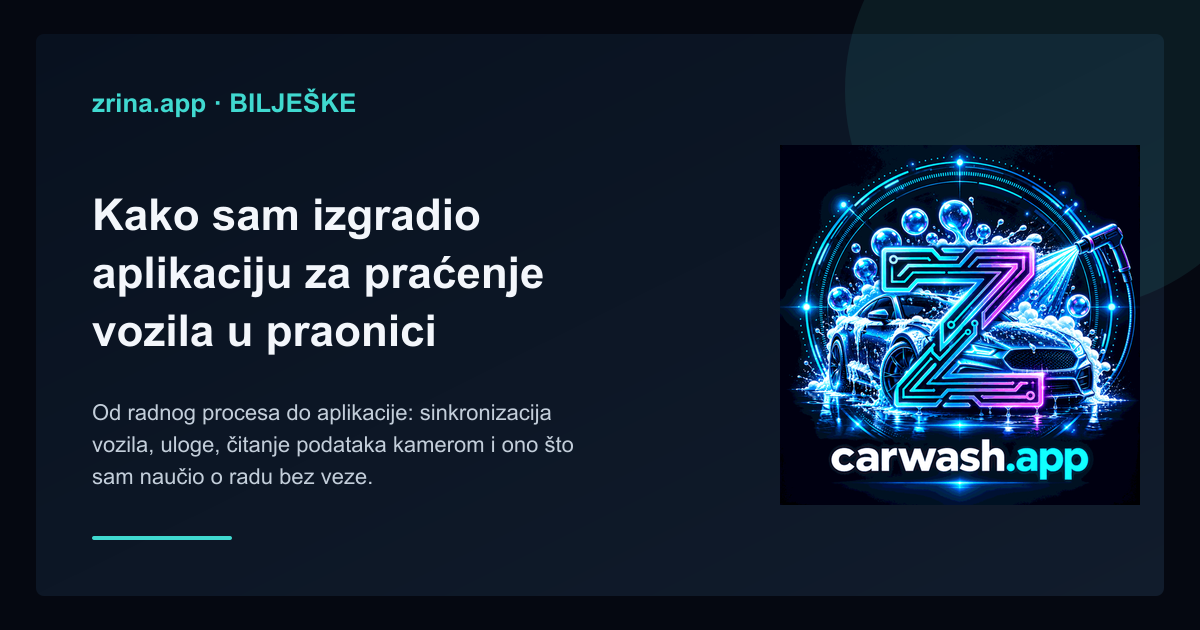
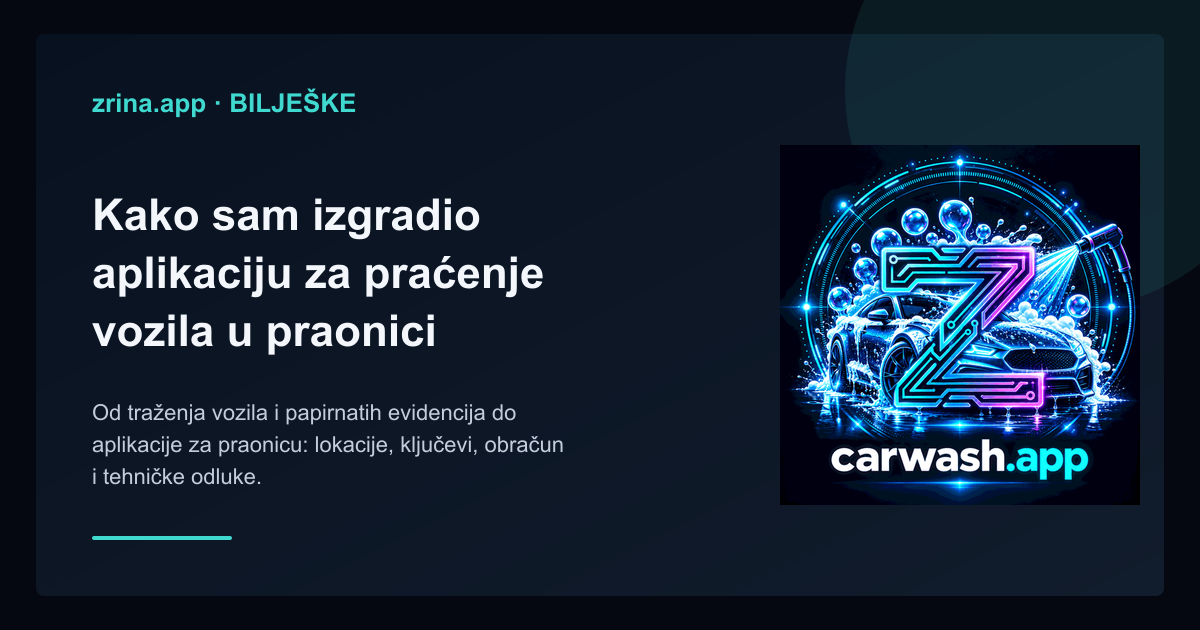
Expand carwash story with workflow and technical examples

Changed region(s): [[0.0617, 0.6333, 0.4933, 0.7841]]

diff --git a/blog/kako-sam-izgradio-aplikaciju-za-praonicu/index.html b/blog/kako-sam-izgradio-aplikaciju-za-praonicu/index.html
@@ -4,10 +4,10 @@
   <meta charset="UTF-8">
   <meta name="viewport" content="width=device-width, initial-scale=1">
   <title>Kako sam izgradio aplikaciju za praćenje vozila u praonici | zrina.app</title>
-  <meta name="description" content="Od radnog procesa do aplikacije: sinkronizacija vozila, uloge, čitanje podataka kamerom i ono što sam naučio o radu bez veze.">
+  <meta name="description" content="Od traženja vozila i papirnatih evidencija do aplikacije za praonicu: lokacije, ključevi, obračun i tehničke odluke.">
   <link rel="canonical" href="https://zrina.app/blog/kako-sam-izgradio-aplikaciju-za-praonicu/">
   <meta property="og:title" content="Kako sam izgradio aplikaciju za praćenje vozila u praonici">
-  <meta property="og:description" content="Od radnog procesa do aplikacije: sinkronizacija vozila, uloge, čitanje podataka kamerom i ono što sam naučio o radu bez veze.">
+  <meta property="og:description" content="Od traženja vozila i papirnatih evidencija do aplikacije za praonicu: lokacije, ključevi, obračun i tehničke odluke.">
   <meta property="og:type" content="article">
   <meta property="og:url" content="https://zrina.app/blog/kako-sam-izgradio-aplikaciju-za-praonicu/">
   <meta property="og:image" content="https://zrina.app/assets/share-cards/blog/kako-sam-izgradio-aplikaciju-za-praonicu.png">
@@ -17,14 +17,14 @@
   <meta property="og:locale" content="hr_HR">
   <meta name="twitter:card" content="summary_large_image">
   <meta name="twitter:title" content="Kako sam izgradio aplikaciju za praćenje vozila u praonici">
-  <meta name="twitter:description" content="Od radnog procesa do aplikacije: sinkronizacija vozila, uloge, čitanje podataka kamerom i ono što sam naučio o radu bez veze.">
+  <meta name="twitter:description" content="Od traženja vozila i papirnatih evidencija do aplikacije za praonicu: lokacije, ključevi, obračun i tehničke odluke.">
   <meta name="twitter:image" content="https://zrina.app/assets/share-cards/blog/kako-sam-izgradio-aplikaciju-za-praonicu.png">
   <meta name="theme-color" content="#050811">
   <link rel="icon" type="image/png" sizes="96x96" href="/assets/brand/zrinaapp_min.png">
   <link rel="stylesheet" href="/site.css?v=5fb8de16b75c">
   <script src="/navigation.js?v=350f57937047" defer></script>
-  <link rel="stylesheet" href="/blog.css">
-  <script type="application/ld+json">{"@context":"https://schema.org","@type":"Article","headline":"Kako sam izgradio aplikaciju za praćenje vozila u praonici","description":"Od radnog procesa do aplikacije: sinkronizacija vozila, uloge, čitanje podataka kamerom i ono što sam naučio o radu bez veze.","datePublished":"2026-11-11","dateModified":"2026-11-11","inLanguage":"hr","mainEntityOfPage":"https://zrina.app/blog/kako-sam-izgradio-aplikaciju-za-praonicu/","image":"https://zrina.app/assets/share-cards/blog/kako-sam-izgradio-aplikaciju-za-praonicu.png","author":{"@type":"Person","name":"Vedran Zrinski","url":"https://zrina.app/"},"publisher":{"@type":"Organization","name":"zrina.app","url":"https://zrina.app/"}}</script>
+  <link rel="stylesheet" href="/blog.css?v=57bba0f1639a">
+  <script type="application/ld+json">{"@context":"https://schema.org","@type":"Article","headline":"Kako sam izgradio aplikaciju za praćenje vozila u praonici","description":"Od traženja vozila i papirnatih evidencija do aplikacije za praonicu: lokacije, ključevi, obračun i tehničke odluke.","datePublished":"2026-11-11","dateModified":"2026-11-11","inLanguage":"hr","mainEntityOfPage":"https://zrina.app/blog/kako-sam-izgradio-aplikaciju-za-praonicu/","image":"https://zrina.app/assets/share-cards/blog/kako-sam-izgradio-aplikaciju-za-praonicu.png","author":{"@type":"Person","name":"Vedran Zrinski","url":"https://zrina.app/"},"publisher":{"@type":"Organization","name":"zrina.app","url":"https://zrina.app/"}}</script>
 </head>
 <body class="blog-page">
   <header class="topbar has-mobile-menu">
@@ -55,17 +55,42 @@
       <header class="article-header">
         <p class="blog-meta">Iza aplikacije <span aria-hidden="true">·</span> <time datetime="2026-11-11">11. studenoga 2026.</time></p>
         <h1>Kako sam izgradio aplikaciju za praćenje vozila u praonici</h1>
-        <p class="article-summary">Od radnog procesa do aplikacije: sinkronizacija vozila, uloge, čitanje podataka kamerom i ono što sam naučio o radu bez veze.</p>
+        <p class="article-summary">Od traženja vozila i papirnatih evidencija do aplikacije za praonicu: lokacije, ključevi, obračun i tehničke odluke.</p>
       </header>
       <div class="article-content">
-      <p class="article-lead">Kad više ljudi sudjeluje u prijemu, pranju i predaji vozila, jednostavno pitanje „Gdje je auto i tko ima ključ?” može oduzeti više vremena nego što bi trebalo. Aplikaciju za praonicu počeo sam razvijati upravo oko tog svakodnevnog problema.</p>
-      <p>Cilj nije bio napraviti još jednu tablicu za popunjavanje, nego omogućiti timu da na jednom mjestu vidi što čeka, što je u tijeku i što je spremno za sljedeći korak. Izvorna verzija nastala je uz Google Apps Script i Google Sheets te je isprobana u stvarnom radnom procesu. Ovdje opisujem pristup bez podataka o korisnicima ili organizaciji.</p>
+      <p class="article-lead">„Gdje je auto? Gdje je ključ? Je li pranje gotovo?” To nisu bila pitanja na koja smo odgovarali jednim pogledom. Često su značila hodanje, telefonske pozive i potragu po više parkirališta. Upravo zato počeo sam razvijati aplikaciju za praonicu.</p>
+      <p>Izvorna verzija nastala je uz Google Apps Script i Google Sheets te je isprobana u stvarnom radnom procesu. U ovom tekstu namjerno izostavljam naziv organizacije, prepoznatljivu kartu i poslovne podatke, ali želim dočarati problem zbog kojeg je aplikacija nastala.</p>
+      <h2>Zašto je bilo teško pronaći jedan auto?</h2>
+      <p>Praonica je radila u sklopu većeg servisnog kompleksa, odvojena od prijema vozila. Koristio ju je servis, ali i drugi interni i vanjski korisnici. Automobili su tijekom dana mogli biti na različitim parkiralištima ili u različitim dijelovima kompleksa; ključ nije nužno bio ondje gdje i automobil.</p>
+      <p>Prije probnog korištenja aplikacije kolege servisni savjetnici i ja u prosjeku smo radili oko 15.000 koraka tijekom radnog dana, uz puno traženja vozila i ključeva te njihovo prevoženje za isporuku. To je moje iskustvo i približna procjena ukupnog broja koraka, a ne mjerenje koraka uzrokovanih isključivo traženjem. Nemam usporedivo mjerenje nakon uvođenja aplikacije pa ne mogu tvrditi kolika je bila ušteda.</p>
+      <h2>Desetak listova papira svaki dan</h2>
+      <p>Popis opranih vozila vodio se na ispisanim tablicama koje su se ispunjavale rukom — prema mojem iskustvu, oko deset A4 listova dnevno. Podatke je zatim trebalo prepisivati, razvrstavati i računati ručno. Na kraju mjeseca količine i različite vrste pranja obračunavale su se uz papir, olovku i kalkulator.</p>
+      <p>Servis je bio najveći korisnik. Pranje servisnog vozila u tom se procesu nije naplaćivalo kupcu, nego se obračun vodio interno između praonice i servisa. Trebalo je razlikovati naručitelje i vrste usluga kako bi evidencija poslužila kao podloga za odgovarajući obračun, ne samo kao popis automobila.</p>
+      <p>Aplikacija je zato povezala dnevni rad i evidenciju: podaci uneseni uz vozilo mogu se kasnije pregledavati po razdoblju, odjelu i vrsti pranja, uz pripadajući cjenik. Izvorna izvedba nudi pregled količina i iznosa te izvoz podataka. To pomaže pripremi obračuna, ali nije tvrdnja da sama izdaje račune ili da brojke ne treba provjeriti.</p>
       <h2>Jedan zapis, različiti poslovi</h2>
       <p>Vozilo prolazi kroz nekoliko koraka, a različitim ljudima trebaju različite informacije. Nekome je važan prijem, drugome redoslijed pranja, parkirno mjesto ili ključ. Zato su prikazi i dostupne radnje prilagođeni radnoj ulozi, dok svi rade nad zajedničkim zapisima.</p>
-      <p>Najvažnije pitanje u dizajnu nije bilo koliko podataka možemo prikazati, nego može li osoba brzo pronaći ono što joj treba usred smjene. Status, lokacija i ključ zato imaju konkretno mjesto u tijeku rada, umjesto da ostanu samo u usmenoj predaji.</p>
+      <p>Primjerice, osoba u praonici može označiti da je vozilo u pranju ili gotovo i zabilježiti gdje je ostavljeno. Savjetniku su zatim na raspolaganju status, posljednja upisana lokacija i podatak o ključu. Prikaz lokacije je koristan samo ako ga ljudi redovito ažuriraju: nije automatsko GPS praćenje niti jamstvo da je vozilo još uvijek na tom mjestu.</p>
+      <p>U originalu je za odabir lokacije korištena i karta radnog prostora, s dodatnim opisima pojedinih zona. Ona ovdje nije objavljena jer prikazuje stvarnu lokaciju. Važna ideja nije sama fotografija, nego mogućnost da tim koristi zajedničke, razumljive oznake umjesto neodređenog „tamo iza”.</p>
+      <h2>Kako sam razmišljao o rješenju</h2>
+      <p>Sljedeći primjeri namjerno su pojednostavljeni i napisani za ovaj članak: prikazuju načelo, nisu doslovno preuzeti produkcijski kod niti gotov sustav za korištenje. Ne uključuju stvarne podatke ni poslovna pravila organizacije.</p>
       <h2>Kako se promjene pojavljuju na drugim ekranima?</h2>
       <p>U izvornoj izvedbi Google Sheets služi kao zajedničko spremište, a Apps Script obrađuje zahtjeve klijenata. Nakon izmjena ažurira se oznaka verzije; otvoreni ekran periodički provjerava postoje li noviji podaci i po potrebi osvježava popis.</p>
+      <pre><code>// Ilustracija: provjera poznate verzije
+odgovor = provjeriPromjene(poznataVerzija)
+
+ako odgovor.imaPromjena:
+    prikazi(odgovor.vozila)
+    poznataVerzija = odgovor.verzija</code></pre>
+      <p>Ideja je da ekran ne mora svaki put ponovo preuzimati cijeli popis kad se ništa nije promijenilo. Nakon uspješne promjene u izvornom kodu ažurira se oznaka verzije; na sljedećoj provjeri poslužitelj može vratiti podatke ili odgovor da nema promjene.</p>
       <p>To je <em>polling</em>, a ne trenutačna push veza: u pregledanom kodu provjera se pokreće približno svake tri sekunde, uz dodatno vrijeme mreže i obrade. Lokalna kopija može ubrzati početni prikaz, ali ne zamjenjuje svježi odgovor poslužitelja. Ovaj način ne dokazuje da nikad neće doći do zastoja ili sukoba izmjena.</p>
+      <h2>Od zapisa do pripreme obračuna</h2>
+      <p>Umjesto ponovnog ručnog prebrojavanja papira, izvještaj prolazi kroz evidentirana vozila za odabrano razdoblje, razvrstava ih prema naručitelju i vrsti usluge te pridružuje cijenu iz cjenika. Pojednostavljeno:</p>
+      <pre><code>// Ilustracija: grupiranje stavki izvještaja
+za svaki zapis u odabranomRazdoblju:
+    grupa = dohvatiGrupu(zapis.odjel, zapis.vrstaPranja)
+    grupa.kolicina += 1
+    grupa.iznos += cijenaZa(grupa)</code></pre>
+      <p>U izvornom kodu izvještaj čita aktivne i arhivirane zapise, grupira ih po odjelu i vrsti pranja te koristi cjenik. Kvaliteta rezultata ovisi o unesenim zapisima i postavljenim cijenama; izvještaj zato ostaje podloga koju treba pregledati, a ne zamjena za računovodstvenu provjeru.</p>
       <h2>Bez signala: važna razlika između prikaza i spremanja</h2>
       <p>Zadnje poznate podatke korisno je vidjeti i kada veza oslabi. No prikaz spremljenog stanja nije isto što i pouzdano spremanje novih radnji bez interneta. U pregledanoj verziji klijent pri prekidu veze onemogućuje određene akcije; nisam potvrdio postojanje trajnog reda izmjena koji bi ih kasnije automatski poslao.</p>
       <p>To je za mene važna lekcija: offline mogućnost treba opisati i testirati po pojedinoj radnji, a ne obećavati je samo zato što je aplikacija dostupna na mobitelu.</p>
@@ -73,6 +98,7 @@
       <p>Izvorna verzija koristi identifikator pohranjen u pregledniku i postupak odobravanja korisnika i dodjele uloge. To olakšava organizaciju prikaza, ali identifikator preglednika sam po sebi nije pouzdana potvrda identiteta. Kod nove izvedbe takav pristup treba zamijeniti odgovarajućom autentifikacijom i provjerama ovlasti na poslužitelju.</p>
       <h2>Kamera i provjera prije potvrde</h2>
       <p>U originalnom Android okruženju fotografija se obrađuje prepoznavanjem teksta, a rezultat se dodatno prilagođava pravilima za podatke o vozilu. Prepoznavanje može pogriješiti — zato je rezultat pomoć pri unosu, ne zamjena za provjeru osobe koja radi s vozilom.</p>
+      <p>Na primjer, slovo O i znamenka 0 na fotografiji mogu izgledati vrlo slično. Kod VIN-a aplikacija može usporediti više mogućih zapisa, primijeniti pravila dopuštenih znakova i uzeti u obzir kontrolnu znamenku pri rangiranju. Kod registarske oznake ispravci ovise i o položaju znaka. To su pravila obrade rezultata OCR-a, a ne dokaz da je svaka fotografija ispravno pročitana.</p>
       <h2>Tri izvedbe, jedan problem</h2>
       <p>Od izvorne verzije nastala je i zasebna web-izvedba s drukčijim poslužiteljem i bazom, a kasnije eksperimentalna PWA verzija razvijena uz AI Studio. To nisu iste implementacije i ne treba pretpostaviti da svaka funkcija originala radi jednako u novijim verzijama.</p>
       <aside class="article-note"><strong>Što nosim dalje:</strong> razumjeti posao prije odabira tehnologije, provjeriti ponašanje u stvarnim uvjetima i jasno reći gdje su granice rješenja.</aside>

diff --git a/scripts/build-blog.js b/scripts/build-blog.js
@@ -8,23 +8,48 @@ const posts = [
   {
     slug: "kako-sam-izgradio-aplikaciju-za-praonicu",
     title: "Kako sam izgradio aplikaciju za praćenje vozila u praonici",
-    description: "Od radnog procesa do aplikacije: sinkronizacija vozila, uloge, čitanje podataka kamerom i ono što sam naučio o radu bez veze.",
+    description: "Od traženja vozila i papirnatih evidencija do aplikacije za praonicu: lokacije, ključevi, obračun i tehničke odluke.",
     date: "2026-11-11",
     dateLabel: "11. studenoga 2026.",
     category: "Iza aplikacije",
     accent: "#40d9d0",
     icon: "carwash/carwash-logo.png",
     imageAlt: "carwash.app — aplikacija za praćenje tijeka vozila u praonici",
-    facebook: "Kako povezati status vozila, lokaciju i ključeve u jedan pregled? Pišem o nastanku aplikacije za praonicu i tehničkim odlukama iza nje. https://zrina.app/blog/kako-sam-izgradio-aplikaciju-za-praonicu/",
+    facebook: "Kako od traženja vozila i papirnatih evidencija doći do zajedničkog pregleda praonice? Pišem o stvarnom problemu i tehničkim odlukama iza aplikacije. https://zrina.app/blog/kako-sam-izgradio-aplikaciju-za-praonicu/",
     body: `
-      <p class="article-lead">Kad više ljudi sudjeluje u prijemu, pranju i predaji vozila, jednostavno pitanje „Gdje je auto i tko ima ključ?” može oduzeti više vremena nego što bi trebalo. Aplikaciju za praonicu počeo sam razvijati upravo oko tog svakodnevnog problema.</p>
-      <p>Cilj nije bio napraviti još jednu tablicu za popunjavanje, nego omogućiti timu da na jednom mjestu vidi što čeka, što je u tijeku i što je spremno za sljedeći korak. Izvorna verzija nastala je uz Google Apps Script i Google Sheets te je isprobana u stvarnom radnom procesu. Ovdje opisujem pristup bez podataka o korisnicima ili organizaciji.</p>
+      <p class="article-lead">„Gdje je auto? Gdje je ključ? Je li pranje gotovo?” To nisu bila pitanja na koja smo odgovarali jednim pogledom. Često su značila hodanje, telefonske pozive i potragu po više parkirališta. Upravo zato počeo sam razvijati aplikaciju za praonicu.</p>
+      <p>Izvorna verzija nastala je uz Google Apps Script i Google Sheets te je isprobana u stvarnom radnom procesu. U ovom tekstu namjerno izostavljam naziv organizacije, prepoznatljivu kartu i poslovne podatke, ali želim dočarati problem zbog kojeg je aplikacija nastala.</p>
+      <h2>Zašto je bilo teško pronaći jedan auto?</h2>
+      <p>Praonica je radila u sklopu većeg servisnog kompleksa, odvojena od prijema vozila. Koristio ju je servis, ali i drugi interni i vanjski korisnici. Automobili su tijekom dana mogli biti na različitim parkiralištima ili u različitim dijelovima kompleksa; ključ nije nužno bio ondje gdje i automobil.</p>
+      <p>Prije probnog korištenja aplikacije kolege servisni savjetnici i ja u prosjeku smo radili oko 15.000 koraka tijekom radnog dana, uz puno traženja vozila i ključeva te njihovo prevoženje za isporuku. To je moje iskustvo i približna procjena ukupnog broja koraka, a ne mjerenje koraka uzrokovanih isključivo traženjem. Nemam usporedivo mjerenje nakon uvođenja aplikacije pa ne mogu tvrditi kolika je bila ušteda.</p>
+      <h2>Desetak listova papira svaki dan</h2>
+      <p>Popis opranih vozila vodio se na ispisanim tablicama koje su se ispunjavale rukom — prema mojem iskustvu, oko deset A4 listova dnevno. Podatke je zatim trebalo prepisivati, razvrstavati i računati ručno. Na kraju mjeseca količine i različite vrste pranja obračunavale su se uz papir, olovku i kalkulator.</p>
+      <p>Servis je bio najveći korisnik. Pranje servisnog vozila u tom se procesu nije naplaćivalo kupcu, nego se obračun vodio interno između praonice i servisa. Trebalo je razlikovati naručitelje i vrste usluga kako bi evidencija poslužila kao podloga za odgovarajući obračun, ne samo kao popis automobila.</p>
+      <p>Aplikacija je zato povezala dnevni rad i evidenciju: podaci uneseni uz vozilo mogu se kasnije pregledavati po razdoblju, odjelu i vrsti pranja, uz pripadajući cjenik. Izvorna izvedba nudi pregled količina i iznosa te izvoz podataka. To pomaže pripremi obračuna, ali nije tvrdnja da sama izdaje račune ili da brojke ne treba provjeriti.</p>
       <h2>Jedan zapis, različiti poslovi</h2>
       <p>Vozilo prolazi kroz nekoliko koraka, a različitim ljudima trebaju različite informacije. Nekome je važan prijem, drugome redoslijed pranja, parkirno mjesto ili ključ. Zato su prikazi i dostupne radnje prilagođeni radnoj ulozi, dok svi rade nad zajedničkim zapisima.</p>
-      <p>Najvažnije pitanje u dizajnu nije bilo koliko podataka možemo prikazati, nego može li osoba brzo pronaći ono što joj treba usred smjene. Status, lokacija i ključ zato imaju konkretno mjesto u tijeku rada, umjesto da ostanu samo u usmenoj predaji.</p>
+      <p>Primjerice, osoba u praonici može označiti da je vozilo u pranju ili gotovo i zabilježiti gdje je ostavljeno. Savjetniku su zatim na raspolaganju status, posljednja upisana lokacija i podatak o ključu. Prikaz lokacije je koristan samo ako ga ljudi redovito ažuriraju: nije automatsko GPS praćenje niti jamstvo da je vozilo još uvijek na tom mjestu.</p>
+      <p>U originalu je za odabir lokacije korištena i karta radnog prostora, s dodatnim opisima pojedinih zona. Ona ovdje nije objavljena jer prikazuje stvarnu lokaciju. Važna ideja nije sama fotografija, nego mogućnost da tim koristi zajedničke, razumljive oznake umjesto neodređenog „tamo iza”.</p>
+      <h2>Kako sam razmišljao o rješenju</h2>
+      <p>Sljedeći primjeri namjerno su pojednostavljeni i napisani za ovaj članak: prikazuju načelo, nisu doslovno preuzeti produkcijski kod niti gotov sustav za korištenje. Ne uključuju stvarne podatke ni poslovna pravila organizacije.</p>
       <h2>Kako se promjene pojavljuju na drugim ekranima?</h2>
       <p>U izvornoj izvedbi Google Sheets služi kao zajedničko spremište, a Apps Script obrađuje zahtjeve klijenata. Nakon izmjena ažurira se oznaka verzije; otvoreni ekran periodički provjerava postoje li noviji podaci i po potrebi osvježava popis.</p>
+      <pre><code>// Ilustracija: provjera poznate verzije
+odgovor = provjeriPromjene(poznataVerzija)
+
+ako odgovor.imaPromjena:
+    prikazi(odgovor.vozila)
+    poznataVerzija = odgovor.verzija</code></pre>
+      <p>Ideja je da ekran ne mora svaki put ponovo preuzimati cijeli popis kad se ništa nije promijenilo. Nakon uspješne promjene u izvornom kodu ažurira se oznaka verzije; na sljedećoj provjeri poslužitelj može vratiti podatke ili odgovor da nema promjene.</p>
       <p>To je <em>polling</em>, a ne trenutačna push veza: u pregledanom kodu provjera se pokreće približno svake tri sekunde, uz dodatno vrijeme mreže i obrade. Lokalna kopija može ubrzati početni prikaz, ali ne zamjenjuje svježi odgovor poslužitelja. Ovaj način ne dokazuje da nikad neće doći do zastoja ili sukoba izmjena.</p>
+      <h2>Od zapisa do pripreme obračuna</h2>
+      <p>Umjesto ponovnog ručnog prebrojavanja papira, izvještaj prolazi kroz evidentirana vozila za odabrano razdoblje, razvrstava ih prema naručitelju i vrsti usluge te pridružuje cijenu iz cjenika. Pojednostavljeno:</p>
+      <pre><code>// Ilustracija: grupiranje stavki izvještaja
+za svaki zapis u odabranomRazdoblju:
+    grupa = dohvatiGrupu(zapis.odjel, zapis.vrstaPranja)
+    grupa.kolicina += 1
+    grupa.iznos += cijenaZa(grupa)</code></pre>
+      <p>U izvornom kodu izvještaj čita aktivne i arhivirane zapise, grupira ih po odjelu i vrsti pranja te koristi cjenik. Kvaliteta rezultata ovisi o unesenim zapisima i postavljenim cijenama; izvještaj zato ostaje podloga koju treba pregledati, a ne zamjena za računovodstvenu provjeru.</p>
       <h2>Bez signala: važna razlika između prikaza i spremanja</h2>
       <p>Zadnje poznate podatke korisno je vidjeti i kada veza oslabi. No prikaz spremljenog stanja nije isto što i pouzdano spremanje novih radnji bez interneta. U pregledanoj verziji klijent pri prekidu veze onemogućuje određene akcije; nisam potvrdio postojanje trajnog reda izmjena koji bi ih kasnije automatski poslao.</p>
       <p>To je za mene važna lekcija: offline mogućnost treba opisati i testirati po pojedinoj radnji, a ne obećavati je samo zato što je aplikacija dostupna na mobitelu.</p>
@@ -32,6 +57,7 @@ const posts = [
       <p>Izvorna verzija koristi identifikator pohranjen u pregledniku i postupak odobravanja korisnika i dodjele uloge. To olakšava organizaciju prikaza, ali identifikator preglednika sam po sebi nije pouzdana potvrda identiteta. Kod nove izvedbe takav pristup treba zamijeniti odgovarajućom autentifikacijom i provjerama ovlasti na poslužitelju.</p>
       <h2>Kamera i provjera prije potvrde</h2>
       <p>U originalnom Android okruženju fotografija se obrađuje prepoznavanjem teksta, a rezultat se dodatno prilagođava pravilima za podatke o vozilu. Prepoznavanje može pogriješiti — zato je rezultat pomoć pri unosu, ne zamjena za provjeru osobe koja radi s vozilom.</p>
+      <p>Na primjer, slovo O i znamenka 0 na fotografiji mogu izgledati vrlo slično. Kod VIN-a aplikacija može usporediti više mogućih zapisa, primijeniti pravila dopuštenih znakova i uzeti u obzir kontrolnu znamenku pri rangiranju. Kod registarske oznake ispravci ovise i o položaju znaka. To su pravila obrade rezultata OCR-a, a ne dokaz da je svaka fotografija ispravno pročitana.</p>
       <h2>Tri izvedbe, jedan problem</h2>
       <p>Od izvorne verzije nastala je i zasebna web-izvedba s drukčijim poslužiteljem i bazom, a kasnije eksperimentalna PWA verzija razvijena uz AI Studio. To nisu iste implementacije i ne treba pretpostaviti da svaka funkcija originala radi jednako u novijim verzijama.</p>
       <aside class="article-note"><strong>Što nosim dalje:</strong> razumjeti posao prije odabira tehnologije, provjeriti ponašanje u stvarnim uvjetima i jasno reći gdje su granice rješenja.</aside>
@@ -205,7 +231,7 @@ function head(title, description, canonical, image, type = "website", jsonLd = n
   <link rel="icon" type="image/png" sizes="96x96" href="/assets/brand/zrinaapp_min.png">
   <link rel="stylesheet" href="/site.css?v=${assetVersion("site.css")}">
   <script src="/navigation.js?v=${assetVersion("navigation.js")}" defer></script>
-  <link rel="stylesheet" href="/blog.css">
+  <link rel="stylesheet" href="/blog.css?v=${assetVersion("blog.css")}">
 ${jsonLd ? `  <script type="application/ld+json">${JSON.stringify(jsonLd).replace(/</g, "\\u003c")}</script>\n` : ""}</head>`;
 }
 

diff --git a/blog/index.html b/blog/index.html
@@ -23,7 +23,7 @@
   <link rel="icon" type="image/png" sizes="96x96" href="/assets/brand/zrinaapp_min.png">
   <link rel="stylesheet" href="/site.css?v=5fb8de16b75c">
   <script src="/navigation.js?v=350f57937047" defer></script>
-  <link rel="stylesheet" href="/blog.css">
+  <link rel="stylesheet" href="/blog.css?v=57bba0f1639a">
   <script type="application/ld+json">{"@context":"https://schema.org","@type":"Blog","name":"Bilješke sa zrina.app","description":"Praktične bilješke o obiteljskim uspomenama, prirodi, dronovima i izradi korisnih aplikacija.","url":"https://zrina.app/blog/","inLanguage":"hr","blogPost":[{"@type":"BlogPosting","headline":"Kako sam izgradio aplikaciju za praćenje vozila u praonici","url":"https://zrina.app/blog/kako-sam-izgradio-aplikaciju-za-praonicu/","datePublished":"2026-11-11"},{"@type":"BlogPosting","headline":"Obiteljski recept nije samo popis sastojaka","url":"https://zrina.app/blog/obiteljski-recepti-sacuvati-price/","datePublished":"2026-11-11"}]}</script>
 </head>
 <body class="blog-page">
@@ -59,7 +59,7 @@
       <article class="blog-card">
     <p class="blog-meta">Iza aplikacije <span aria-hidden="true">·</span> <time datetime="2026-11-11">11. studenoga 2026.</time></p>
     <h2><a href="/blog/kako-sam-izgradio-aplikaciju-za-praonicu/">Kako sam izgradio aplikaciju za praćenje vozila u praonici</a></h2>
-    <p>Od radnog procesa do aplikacije: sinkronizacija vozila, uloge, čitanje podataka kamerom i ono što sam naučio o radu bez veze.</p>
+    <p>Od traženja vozila i papirnatih evidencija do aplikacije za praonicu: lokacije, ključevi, obračun i tehničke odluke.</p>
     <a class="blog-read" href="/blog/kako-sam-izgradio-aplikaciju-za-praonicu/">Pročitaj članak <span aria-hidden="true">→</span></a>
   </article>
 <article class="blog-card">

diff --git a/blog/obiteljski-recepti-sacuvati-price/index.html b/blog/obiteljski-recepti-sacuvati-price/index.html
@@ -23,7 +23,7 @@
   <link rel="icon" type="image/png" sizes="96x96" href="/assets/brand/zrinaapp_min.png">
   <link rel="stylesheet" href="/site.css?v=5fb8de16b75c">
   <script src="/navigation.js?v=350f57937047" defer></script>
-  <link rel="stylesheet" href="/blog.css">
+  <link rel="stylesheet" href="/blog.css?v=57bba0f1639a">
   <script type="application/ld+json">{"@context":"https://schema.org","@type":"Article","headline":"Obiteljski recept nije samo popis sastojaka","description":"Kako sačuvati obiteljske recepte zajedno s rukopisom, pričom i malim detaljima koji se ne mogu izmjeriti žlicom.","datePublished":"2026-11-11","dateModified":"2026-11-11","inLanguage":"hr","mainEntityOfPage":"https://zrina.app/blog/obiteljski-recepti-sacuvati-price/","image":"https://zrina.app/assets/share-cards/blog/obiteljski-recepti-sacuvati-price.png","author":{"@type":"Person","name":"Vedran Zrinski","url":"https://zrina.app/"},"publisher":{"@type":"Organization","name":"zrina.app","url":"https://zrina.app/"}}</script>
 </head>
 <body class="blog-page">

diff --git a/blog.css b/blog.css
@@ -24,6 +24,7 @@
 .article-content h2 { color: #f7fafc; font-size: 1.48rem; margin: 32px 0 12px; }
 .article-content ul { padding-left: 1.4rem; margin: 0 0 20px; }
 .article-content li { padding-left: 4px; margin: 7px 0; }
+.article-content pre { max-width: 100%; overflow-x: auto; margin: 20px 0; padding: 18px; border: 1px solid var(--line); border-radius: 12px; background: #0a1623; color: #e4f6f6; font: .9rem/1.6 var(--mono); }
 .article-content a, .article-footer a:not(.btn) { color: var(--cyan); }
 .article-note, .safety-note { display: block; margin: 24px 0; padding: 18px 20px; border-left: 3px solid var(--cyan); border-radius: 0 12px 12px 0; background: rgba(0, 240, 255, .07); }
 .safety-note { border-left-color: #fbbf24; background: rgba(251, 191, 36, .09); color: #fff3cc; }
